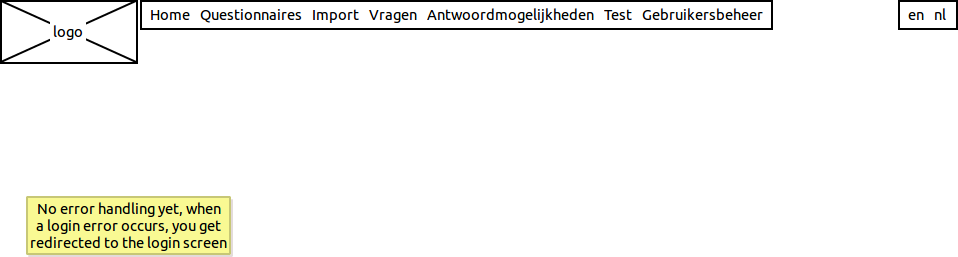
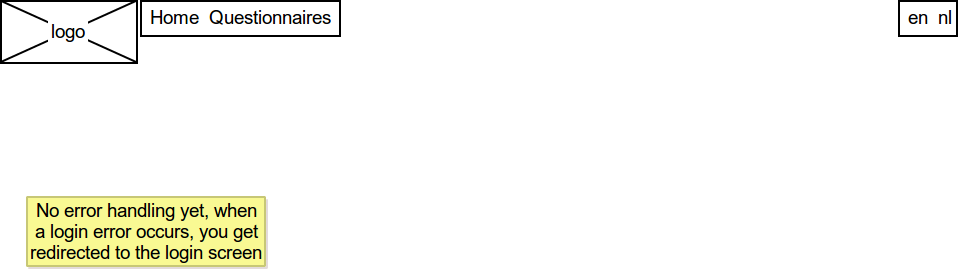
Updated wireframes html output

diff --git a/documentation/wireframes/html/index_files/story.js b/documentation/wireframes/html/index_files/story.js
@@ -6,19 +6,30 @@ var story = {
    "height": 364,
    "width": 958,
    "image": "1-login.png",
-   "links": [{
-    "page": 1,
-    "rect": [
-     140,
-     310,
-     317,
-     354
-    ]
-   }]
+   "links": [
+    {
+     "page": 4,
+     "rect": [
+      21,
+      313,
+      110,
+      344
+     ]
+    },
+    {
+     "page": 1,
+     "rect": [
+      140,
+      310,
+      352,
+      362
+     ]
+    }
+   ]
   },
   {
    "title": "login-error",
-   "height": 257,
+   "height": 269,
    "width": 958,
    "image": "2-login-error.png",
    "links": [{
@@ -26,10 +37,202 @@ var story = {
     "rect": [
      26,
      196,
-     233,
-     257
+     268,
+     269
     ]
    }]
+  },
+  {
+   "title": "add-questionnaire",
+   "height": 457,
+   "width": 617,
+   "image": "3-add-questionnaire.png",
+   "links": [
+    {
+     "page": 4,
+     "rect": [
+      34,
+      409,
+      110,
+      440
+     ]
+    },
+    {
+     "page": 4,
+     "rect": [
+      127,
+      409,
+      188,
+      440
+     ]
+    }
+   ]
+  },
+  {
+   "title": "edit-questionnaire-properties",
+   "height": 457,
+   "width": 617,
+   "image": "4-edit-questionnaire-properties.png",
+   "links": [
+    {
+     "page": 4,
+     "rect": [
+      34,
+      409,
+      110,
+      440
+     ]
+    },
+    {
+     "page": 4,
+     "rect": [
+      127,
+      409,
+      188,
+      440
+     ]
+    }
+   ]
+  },
+  {
+   "title": "manage-questionnaires-overview",
+   "height": 343,
+   "width": 958,
+   "image": "5-manage-questionnaires-overview.png",
+   "links": [
+    {
+     "page": 2,
+     "rect": [
+      3,
+      312,
+      188,
+      343
+     ]
+    },
+    {
+     "page": 3,
+     "rect": [
+      414,
+      264,
+      431,
+      292
+     ]
+    },
+    {
+     "page": 5,
+     "rect": [
+      120,
+      264,
+      353,
+      292
+     ]
+    },
+    {
+     "page": 4,
+     "rect": [
+      204,
+      0,
+      336,
+      37
+     ]
+    },
+    {
+     "page": 3,
+     "rect": [
+      414,
+      235,
+      431,
+      263
+     ]
+    },
+    {
+     "page": 5,
+     "rect": [
+      120,
+      235,
+      353,
+      263
+     ]
+    },
+    {
+     "page": 3,
+     "rect": [
+      414,
+      206,
+      431,
+      234
+     ]
+    },
+    {
+     "page": 5,
+     "rect": [
+      120,
+      206,
+      353,
+      234
+     ]
+    },
+    {
+     "page": 6,
+     "rect": [
+      3,
+      207,
+      25,
+      232
+     ]
+    },
+    {
+     "page": 6,
+     "rect": [
+      3,
+      236,
+      25,
+      261
+     ]
+    },
+    {
+     "page": 6,
+     "rect": [
+      2,
+      265,
+      24,
+      290
+     ]
+    }
+   ]
+  },
+  {
+   "title": "preview-questionnaire",
+   "height": 218,
+   "width": 958,
+   "image": "6-preview-questionnaire.png",
+   "links": [
+    {
+     "page": 4,
+     "rect": [
+      122,
+      166,
+      378,
+      218
+     ]
+    },
+    {
+     "page": 4,
+     "rect": [
+      204,
+      0,
+      336,
+      37
+     ]
+    }
+   ]
+  },
+  {
+   "title": "hint-drag-to-move",
+   "height": 120,
+   "width": 286,
+   "image": "7-hint-drag-to-move.png",
+   "links": []
   }
  ],
  "highlightLinks": false

diff --git a/documentation/wireframes/html/index.html b/documentation/wireframes/html/index.html
@@ -28,7 +28,7 @@
 			var pages = story.pages;
 			for(var i = 0; i < pages.length; i ++) {
 				var cacheImage = document.createElement('img');
-				cacheImage.src = this.files + '/' + pages[i].image;
+				cacheImage.src = encodeURIComponent(this.files) + '/' + encodeURIComponent(pages[i].image);
 				this.cache.push(cacheImage);
 			}
 		},
@@ -78,29 +78,36 @@
 		refresh: function() {
 			var page = story.pages[this.currentPage];
 			
-			$('#content').empty();
+			$('#nav span.title').html(page.title);
+			$('#nav span.page').html('' + (this.currentPage + 1) + ' of ' + story.pages.length);
+			$('#nav a.previous').toggleClass('disabled', !this.hasPrevious());
+			$('#nav a.next').toggleClass('disabled', !this.hasNext());
 			
-			$('<img/>', {
+			var img = $('<img/>', {
 				src : encodeURIComponent(this.files) + '/' + encodeURIComponent(page.image),
 				usemap: '#map' + this.currentPage,
 				width: page.width,
 				height: page.height
-			}).appendTo('#content');
-
-			$('#nav span.title').html(page.title);
-			$('#nav span.page').html('' + (this.currentPage + 1) + ' of ' + story.pages.length);
-			
-			$('#content').width(page.width);
-			
-			$('#content img').maphilight({
-				alwaysOn: this.highlightLinks,
-				stroke: false,
-				fillColor: 'FFC400',
-				fillOpacity: 100.0/255
 			});
+			
+			var highlight = this.highlightLinks;
 
-			$('#nav a.previous').toggleClass('disabled', !this.hasPrevious());
-			$('#nav a.next').toggleClass('disabled', !this.hasNext());
+			img.one('load', function() {
+				var content = $('#content');
+				content.empty();
+				img.appendTo(content);
+				content.width(page.width);
+				
+				img.maphilight({
+					alwaysOn: highlight,
+					stroke: false,
+					fillColor: 'FFC400',
+					fillOpacity: 100.0/255
+				});
+			}).each(function() {
+				if(this.complete || (jQuery.browser.msie && parseInt(jQuery.browser.version) == 6)) 
+					$(this).trigger('load');
+			});
 		},
 		next : function() {
 			if (this.hasNext())
